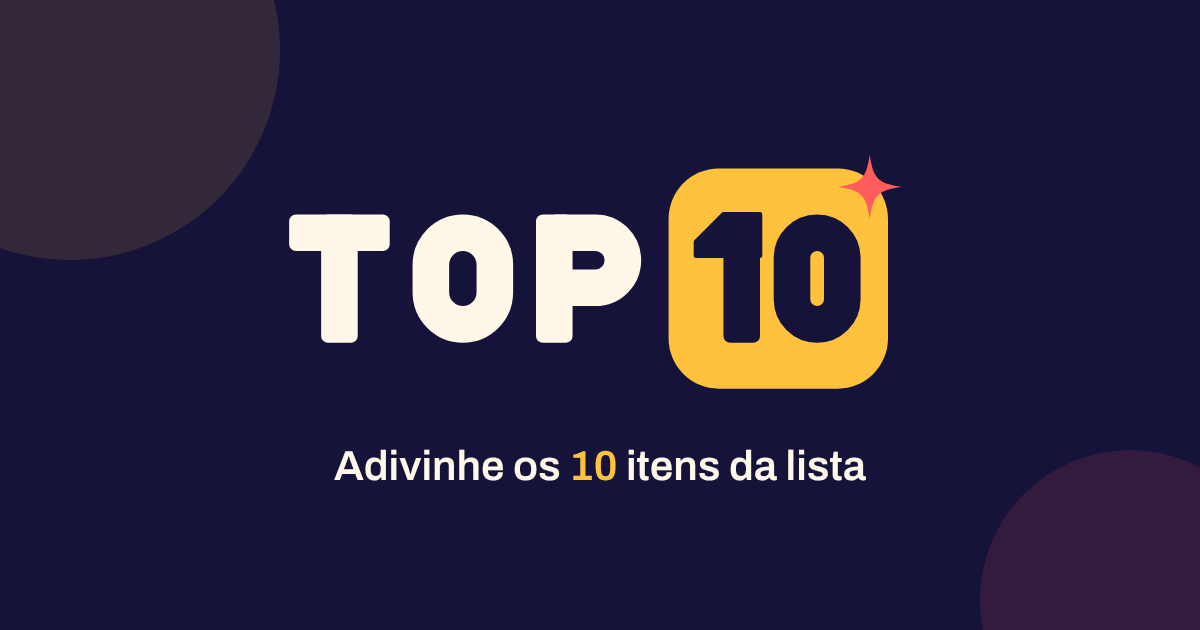
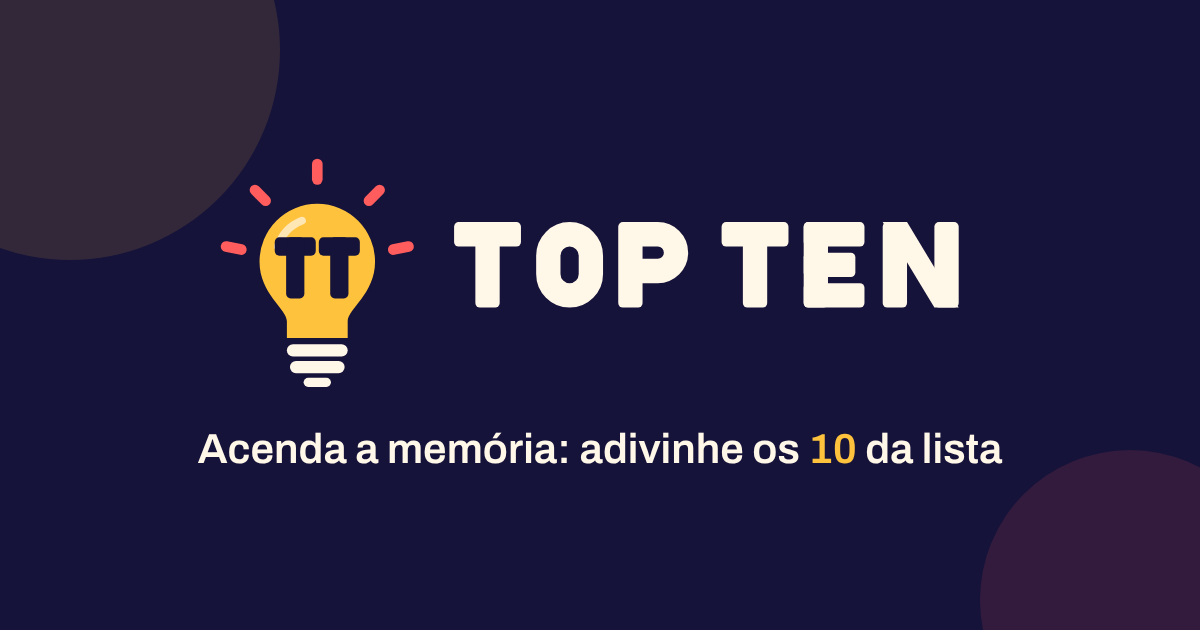
Nova identidade: nome TT (Top Ten) com lâmpada
Logo passa a ser uma lâmpada com o TT no lugar do filamento, ao lado do
nome TOP TEN. Inclui versões claro/escuro, favicon simplificado sem
raios, imagem de compartilhamento e guia de marca atualizados.

Claude-Session: https://claude.ai/code/session_01WUzeweaQj7mvf8QFX5QcQx

Changed region(s): [[0.185, 0.2413, 0.8017, 0.6333], [0.1542, 0.6937, 0.8325, 0.7841]]

diff --git a/brand.html b/brand.html
@@ -3,8 +3,8 @@
 <head>
   <meta charset="utf-8">
   <meta name="viewport" content="width=device-width, initial-scale=1">
-  <title>Top 10 · Identidade visual</title>
-  <link rel="icon" href="brand/icon.svg" type="image/svg+xml">
+  <title>TT · Identidade visual</title>
+  <link rel="icon" href="brand/favicon.svg" type="image/svg+xml">
   <link rel="preconnect" href="https://fonts.googleapis.com">
   <link rel="preconnect" href="https://fonts.gstatic.com" crossorigin>
   <link rel="stylesheet" href="https://fonts.googleapis.com/css2?family=Archivo:wght@400;600;700&family=Archivo+Black&display=swap">
@@ -36,30 +36,30 @@
 </head>
 <body>
 <main>
-  <img src="brand/logo.svg" alt="Top 10" width="200">
+  <img src="brand/logo.svg" alt="TT · Top Ten" width="300">
   <h1>Identidade visual</h1>
-  <p class="muted">Clima de programa de auditório: chamativa, divertida e fácil de ler. A marca nasce de uma ideia só: o <b>10 dentro da plaquinha dourada</b>, como um prêmio.</p>
+  <p class="muted"><b>TT</b> é a abreviação de <b>Top Ten</b>. A marca nasce da ideia de "acender a lâmpada": aquele momento em que você lembra a resposta. O <b>TT fica dentro da lâmpada</b>, no lugar do filamento: é o nome que acende.</p>
 
   <h2>Logo</h2>
-  <p>As letras são montadas com formas geométricas do mesmo peso, sem depender de fonte. O brilho coral marca o momento do acerto.</p>
+  <p>A lâmpada com o TT, acompanhada do nome por extenso "TOP TEN". As letras são montadas com formas geométricas do mesmo peso, sem depender de fonte. Os raios coral representam o momento do acerto.</p>
   <div class="grid">
     <div class="panel"><img src="brand/logo.svg" alt="Logo em fundo claro" width="280"></div>
     <div class="panel dark"><img src="brand/logo-dark.svg" alt="Logo em fundo escuro" width="280"></div>
   </div>
 
   <h2>Ícone</h2>
-  <p>A plaquinha sozinha funciona como favicon, ícone de app e avatar de rede social.</p>
+  <p>A lâmpada sozinha funciona como ícone de app e avatar de rede social. Em tamanhos muito pequenos (favicon), use a versão sem raios.</p>
   <div class="grid">
     <div class="panel"><img src="brand/icon.svg" alt="Ícone grande" width="140"></div>
-    <div class="panel dark"><img src="brand/icon.svg" alt="Ícone em fundo escuro" width="96"></div>
-    <div class="panel"><img src="brand/icon.svg" alt="Ícone pequeno" width="32"></div>
+    <div class="panel dark"><img src="brand/icon-dark.svg" alt="Ícone em fundo escuro" width="110"></div>
+    <div class="panel"><img src="brand/favicon.svg" alt="Favicon" width="32"></div>
   </div>
 
   <h2>Cores</h2>
   <div class="grid">
-    <div class="swatch"><div style="background:#FFC23D"></div><div><b>Amarelo-troféu</b><code>#FFC23D</code> · cor principal, botões, acertos</div></div>
-    <div class="swatch"><div style="background:#16133A"></div><div><b>Azul-noite</b><code>#16133A</code> · texto, logo, fundo escuro</div></div>
-    <div class="swatch"><div style="background:#FF5D5D"></div><div><b>Coral</b><code>#FF5D5D</code> · brilho, vidas, erros</div></div>
+    <div class="swatch"><div style="background:#FFC23D"></div><div><b>Amarelo-lâmpada</b><code>#FFC23D</code> · vidro da lâmpada, botões, acertos</div></div>
+    <div class="swatch"><div style="background:#16133A"></div><div><b>Azul-noite</b><code>#16133A</code> · TT, textos, fundo escuro</div></div>
+    <div class="swatch"><div style="background:#FF5D5D"></div><div><b>Coral</b><code>#FF5D5D</code> · raios de luz, vidas, erros</div></div>
     <div class="swatch"><div style="background:#1FA874"></div><div><b>Verde</b><code>#1FA874</code> · mensagens de acerto</div></div>
     <div class="swatch"><div style="background:#FFF7E8"></div><div><b>Creme</b><code>#FFF7E8</code> · fundo claro</div></div>
   </div>
@@ -75,17 +75,18 @@
   <h2>Regras de uso</h2>
   <ul class="rules">
     <li>Use <code>logo.svg</code> em fundos claros e <code>logo-dark.svg</code> em fundos escuros.</li>
-    <li>Não mude as cores da plaquinha: ela é sempre amarela com o 10 azul-noite.</li>
-    <li>Deixe um respiro em volta do logo de pelo menos a altura da letra O.</li>
+    <li>Não mude as cores da lâmpada: o vidro é sempre amarelo com o TT azul-noite.</li>
+    <li>Deixe um respiro em volta do logo de pelo menos a altura do TT.</li>
     <li>Não distorça, rotacione ou aplique sombras no logo.</li>
-    <li>Coral é cor de destaque: use pouco, só para brilho, vidas e erros.</li>
+    <li>Coral é cor de destaque: use pouco, só para os raios, vidas e erros.</li>
   </ul>
 
   <h2>Arquivos</h2>
   <ul class="rules">
     <li><code>brand/logo.svg</code>: logo horizontal, fundo claro</li>
     <li><code>brand/logo-dark.svg</code>: logo horizontal, fundo escuro</li>
-    <li><code>brand/icon.svg</code>: ícone / favicon</li>
+    <li><code>brand/icon.svg</code> e <code>brand/icon-dark.svg</code>: lâmpada, fundo claro e escuro</li>
+    <li><code>brand/favicon.svg</code>: lâmpada sem raios, para tamanhos pequenos</li>
     <li><code>brand/og-image.png</code>: imagem de compartilhamento (1200×630)</li>
   </ul>
 </main>

diff --git a/index.html b/index.html
@@ -3,12 +3,12 @@
 <head>
   <meta charset="utf-8">
   <meta name="viewport" content="width=device-width, initial-scale=1">
-  <title>Top 10</title>
-  <meta name="description" content="Adivinhe os 10 itens da lista. Você tem 3 vidas.">
+  <title>TT · Top Ten</title>
+  <meta name="description" content="Acenda a memória: adivinhe os 10 itens da lista.">
   <meta name="theme-color" content="#FFC23D">
-  <link rel="icon" href="brand/icon.svg" type="image/svg+xml">
-  <meta property="og:title" content="Top 10">
-  <meta property="og:description" content="Adivinhe os 10 itens da lista. Você tem 3 vidas.">
+  <link rel="icon" href="brand/favicon.svg" type="image/svg+xml">
+  <meta property="og:title" content="TT · Top Ten">
+  <meta property="og:description" content="Acenda a memória: adivinhe os 10 itens da lista.">
   <meta property="og:image" content="brand/og-image.png">
   <link rel="preconnect" href="https://fonts.googleapis.com">
   <link rel="preconnect" href="https://fonts.gstatic.com" crossorigin>
@@ -19,10 +19,10 @@
   <main>
     <header>
       <h1>
-        <img class="logo logo-light" src="brand/logo.svg" alt="Top 10">
+        <img class="logo logo-light" src="brand/logo.svg" alt="TT · Top Ten">
         <img class="logo logo-dark" src="brand/logo-dark.svg" alt="" aria-hidden="true">
       </h1>
-      <p class="tagline">Adivinhe os 10 itens da lista. Você tem 3 vidas.</p>
+      <p class="tagline">Acenda a memória: adivinhe os 10 itens da lista. Você tem 3 vidas.</p>
     </header>
 
     <section id="menu">

diff --git a/style.css b/style.css
@@ -1,8 +1,8 @@
-/* Identidade visual Top 10 — ver brand.html */
+/* Identidade visual TT · Top Ten — ver brand.html */
 :root {
   --ink: #16133A;      /* azul-noite: texto e traço da marca */
-  --gold: #FFC23D;     /* amarelo-troféu: cor principal */
-  --coral: #FF5D5D;    /* coral: brilho, vidas e erros */
+  --gold: #FFC23D;     /* amarelo-lâmpada: cor principal */
+  --coral: #FF5D5D;    /* coral: raios de luz, vidas e erros */
   --mint: #1FA874;     /* verde: acertos */
   --cream: #FFF7E8;    /* creme: fundo */
 
@@ -47,7 +47,7 @@ main {
 
 header { text-align: center; margin-bottom: 28px; }
 h1 { margin: 0; line-height: 0; }
-.logo { width: 220px; max-width: 70%; height: auto; }
+.logo { width: 300px; max-width: 70%; height: auto; }
 .logo-dark { display: none; }
 @media (prefers-color-scheme: dark) {
   .logo-light { display: none; }

diff --git a/README.md b/README.md
@@ -1,4 +1,4 @@
-# Top 10
+# TT · Top Ten
 
 Jogo de adivinhar listas: escolha um desafio (ex.: "Os 10 estados brasileiros mais populosos") e tente acertar os 10 itens. Cada erro custa uma vida, e você tem 3.
 
